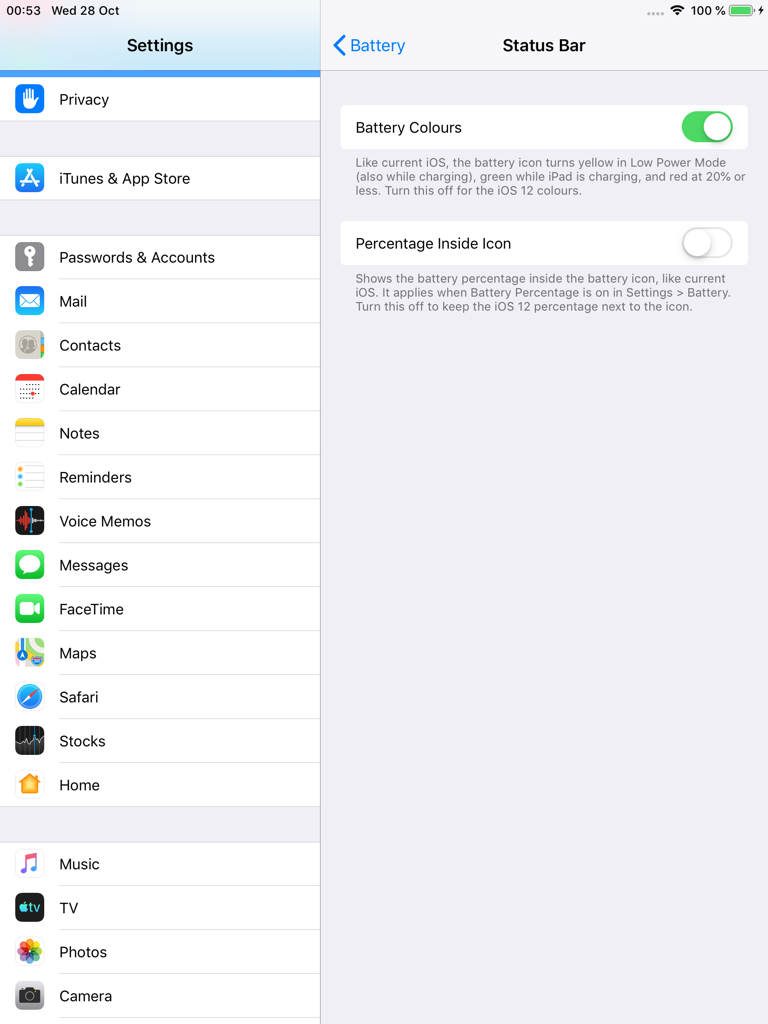
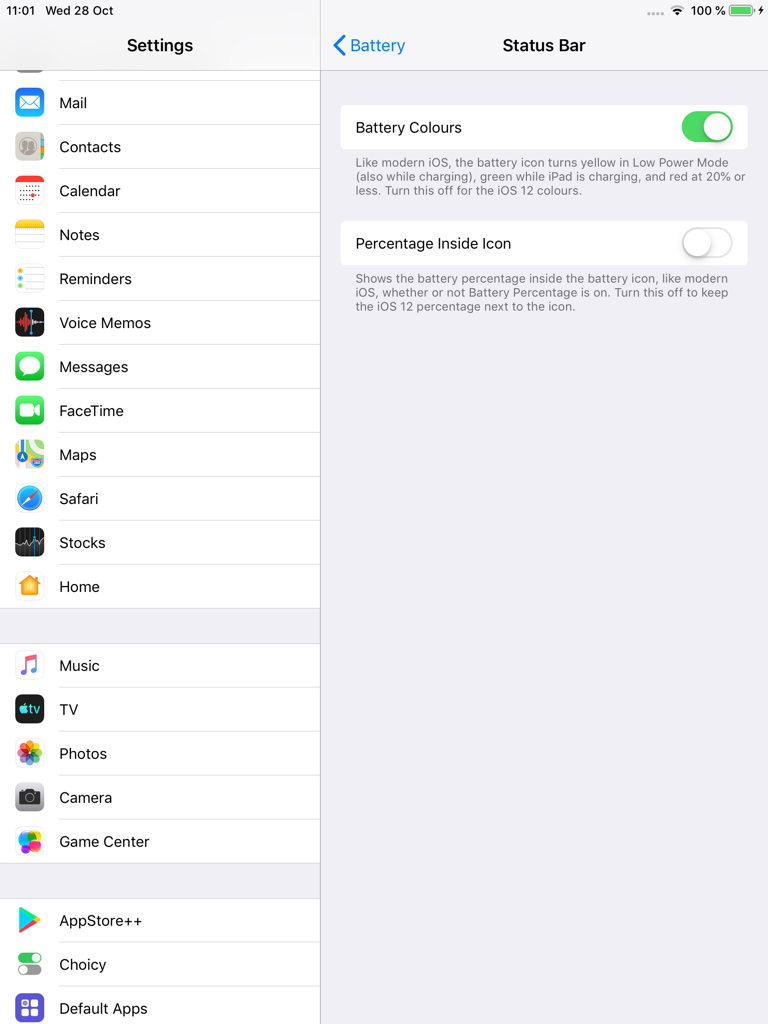
BatteryPlus 1.1.1: Control Center, percentage and Low Power Mode fixes
- Percentage Inside Icon also covers Control Center's status bar, which
  switched back to the iOS 12 look while Control Center opened.
- Percentage Inside Icon works with Battery Percentage on or off.
- Low Power Mode no longer forces the percentage on.
- "modern iOS" instead of "current iOS"; new colour comparison screenshot.

Changed region(s): [[0.0, 0.0, 0.4375, 1.0], [0.4688, 0.25, 0.9375, 0.3125], [0.5, 0.1562, 0.9375, 0.1875]]

diff --git a/BPControllers.m b/BPControllers.m
@@ -234,9 +234,9 @@ static const NSInteger kBPLimitSteps[] = {80, 85, 90, 95, 100};
 - (NSArray *)specifiers {
     if (!_specifiers) {
         NSMutableArray *a = [NSMutableArray array];
-        [a addObject:BPGroup(@"BP_SB_COLORS_GROUP", nil, @"Like current iOS, the battery icon turns yellow in Low Power Mode (also while charging), green while iPad is charging, and red at 20% or less. Turn this off for the iOS 12 colours.")];
+        [a addObject:BPGroup(@"BP_SB_COLORS_GROUP", nil, @"Like modern iOS, the battery icon turns yellow in Low Power Mode (also while charging), green while iPad is charging, and red at 20% or less. Turn this off for the iOS 12 colours.")];
         [a addObject:BPSwitch(self, @"BP_SB_COLORS", @"Battery Colours", @"sbColors", YES)];
-        [a addObject:BPGroup(@"BP_SB_PERCENT_GROUP", nil, @"Shows the battery percentage inside the battery icon, like current iOS. It applies when Battery Percentage is on in Settings > Battery. Turn this off to keep the iOS 12 percentage next to the icon.")];
+        [a addObject:BPGroup(@"BP_SB_PERCENT_GROUP", nil, @"Shows the battery percentage inside the battery icon, like modern iOS, whether or not Battery Percentage is on. Turn this off to keep the iOS 12 percentage next to the icon.")];
         [a addObject:BPSwitch(self, @"BP_SB_PERCENT", @"Percentage Inside Icon", @"sbPercentInside", NO)];
         _specifiers = a;
     }

diff --git a/README.md b/README.md
@@ -2,14 +2,15 @@
 
 <h1 align="center">BatteryPlus (iOS 12)</h1>
 
-**The battery features of current iOS, on iOS 12 iPads.**
+**The battery features of modern iOS, on iOS 12 iPads.**
 
 On iOS 12, Apple keeps most battery features for iPhone. BatteryPlus brings them to iPad, in the iOS 12 style:
 
 - **Low Power Mode** in Settings > Battery and in Control Center. It is the real iOS mode, not a look-alike.
 - **Battery Health:** Maximum Capacity, Cycle Count and Manufacture Date, read from the battery itself.
 - **Charging:** an optional Unplug Reminder.
-- **Status bar:** the battery turns yellow in Low Power Mode, green while charging and red at 20% or less, and can show its percentage inside the icon.
+- **Battery colours**, like modern iOS: the battery turns yellow in Low Power Mode, green while charging and red at 20% or less.
+- **Percentage inside the battery icon**, like modern iOS (optional).
 
 This is an unofficial jailbreak tweak. It is not affiliated with or endorsed by Apple.
 
@@ -31,9 +32,9 @@ Control Center: Low Power Mode off, turned on, and iOS's "Low Power Mode: On" ba
 
 <img src="screenshots/control-center.png" alt="Low Power Mode module in Control Center, off and on" width="800">
 
-Battery colours in the status bar:
+Battery colours in the status bar, compared with iOS 12. They differ at 11 to 20% (red instead of white) and when charging at 10% or less (green instead of red):
 
-<img src="screenshots/status-bar-colours.png" alt="Status bar battery at 100% charging (green), 50% (white), 15% (red), 15% charging (green), 5% (red) and in Low Power Mode (yellow)" width="560">
+<img src="screenshots/status-bar-colours.png" alt="Status bar battery in nine states, in three columns: iOS 12, BatteryPlus colours, and BatteryPlus with the percentage inside the icon" width="700">
 
 Percentage inside the icon (optional), and in apps, in landscape and in Split View:
 
@@ -52,7 +53,7 @@ It turns on the real mode, so the system reacts as it does on iPhone. Verified o
 - Apps see it (`NSProcessInfo.lowPowerModeEnabled`), and iOS shows its own "Low Power Mode" alert the first time.
 - Dynamic wallpapers and parallax are turned off, and Auto-Lock is limited to 30 seconds.
 - Mail stops fetching and iCloud Photos pauses syncing. Background app refresh and automatic downloads follow the same system state.
-- The battery percentage is always shown, and the battery icon turns yellow.
+- The battery icon turns yellow. iOS 12 would also turn the battery percentage on; with BatteryPlus it follows the Battery Percentage switch, so you can keep it off.
 - iOS turns the mode off by itself when the battery charges back to 80%, as on iPhone.
 
 On A7 iPads (such as the iPad mini 2) Low Power Mode doesn't slow the CPU. iOS 12 only does that on newer chips. The other savings apply.
@@ -73,7 +74,7 @@ All values come straight from the battery's gas gauge. A value that the battery 
 
 ### Status bar
 
-- **Battery Colours** (on by default), with the rules of current iOS:
+- **Battery Colours** (on by default), with the rules of modern iOS:
 
   | State | Colour |
   | --- | --- |
@@ -83,7 +84,7 @@ All values come straight from the battery's gas gauge. A value that the battery 
   | Otherwise | the status bar colour (white or black) |
 
   With it off, iOS 12's own rules apply.
-- **Percentage Inside Icon** (off by default): when Battery Percentage is on, the number is drawn inside the battery icon instead of next to it, like current iOS. It reads at every level, on light and dark status bars.
+- **Percentage Inside Icon** (off by default): the number is drawn inside the battery icon instead of next to it, like modern iOS, whether or not Battery Percentage is on. It reads at every level, on light and dark status bars.
 - Works on the Home Screen, the lock screen, in Control Center and in every app, in portrait, landscape and Split View.
 - It costs nothing while idle: there are no timers. The battery is only redrawn when iOS updates the status bar or when Low Power Mode or these settings change.
 
@@ -120,7 +121,7 @@ Everything is in **Settings > Battery**:
   - **Unplug Reminder** (off by default) and **Remind At** (80%, 85%, 90%, 95% or 100%).
 - **Status Bar**:
   - **Battery Colours** (on by default).
-  - **Percentage Inside Icon** (off by default). Needs Battery Percentage on.
+  - **Percentage Inside Icon** (off by default). Works with Battery Percentage on or off.
 
 To add Low Power Mode to Control Center, open **Settings > Control Center > Customize Controls** (needs CCSupport).
 
@@ -130,6 +131,8 @@ To add Low Power Mode to Control Center, open **Settings > Control Center > Cust
 - The automatic turn-off at 80% is iOS's own. It was checked in the system, not by charging a drained battery.
 - Maximum Capacity is what the gas gauge reports. After a long time unused, or right after a battery replacement, the gauge can be off until it has seen a few full charge cycles.
 - Batteries before iPhone 15 don't store a first-use date, so there is no First Use row.
+- With Percentage Inside Icon on, Control Center's status bar shows charging only by the green fill. Unlike the main status bar, it has no separate bolt next to the battery on iPad.
+- iOS 12 also shows the battery percentage on the lock screen while iPad is charging. BatteryPlus leaves that as it is.
 
 ## Build from source
 
